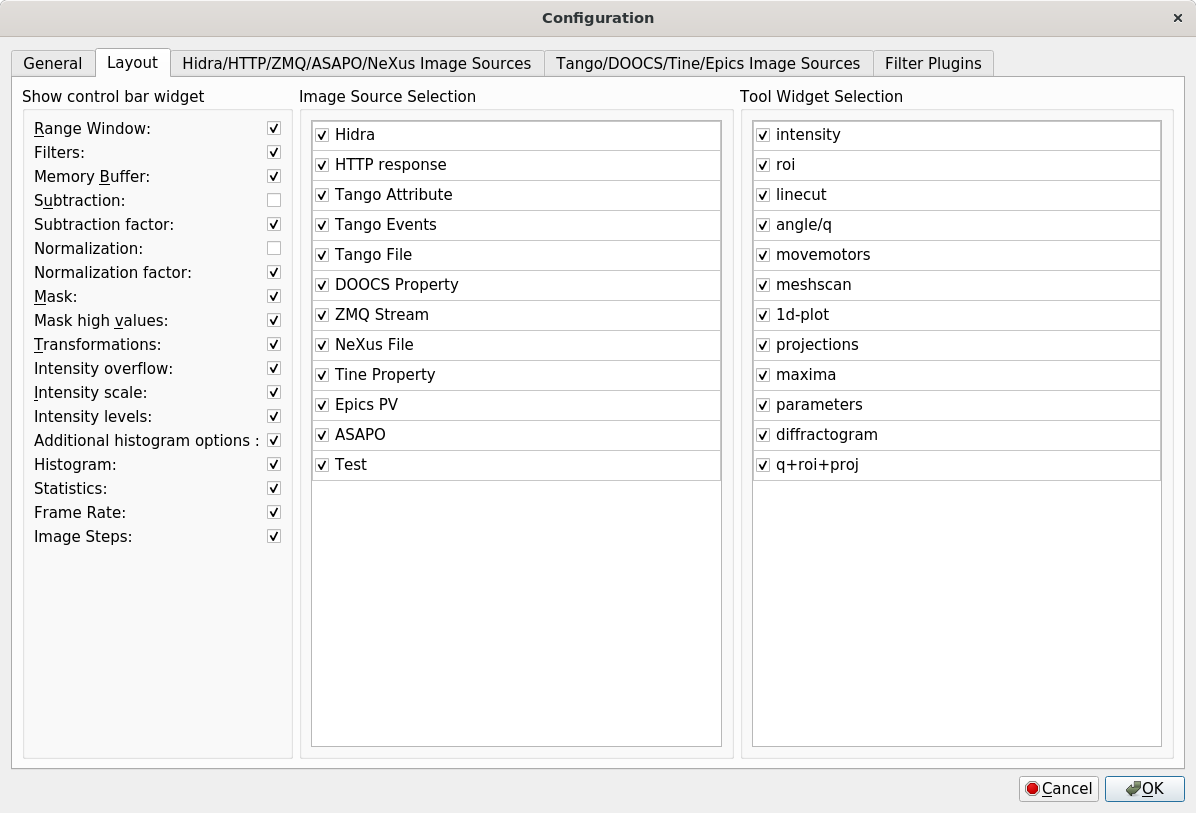
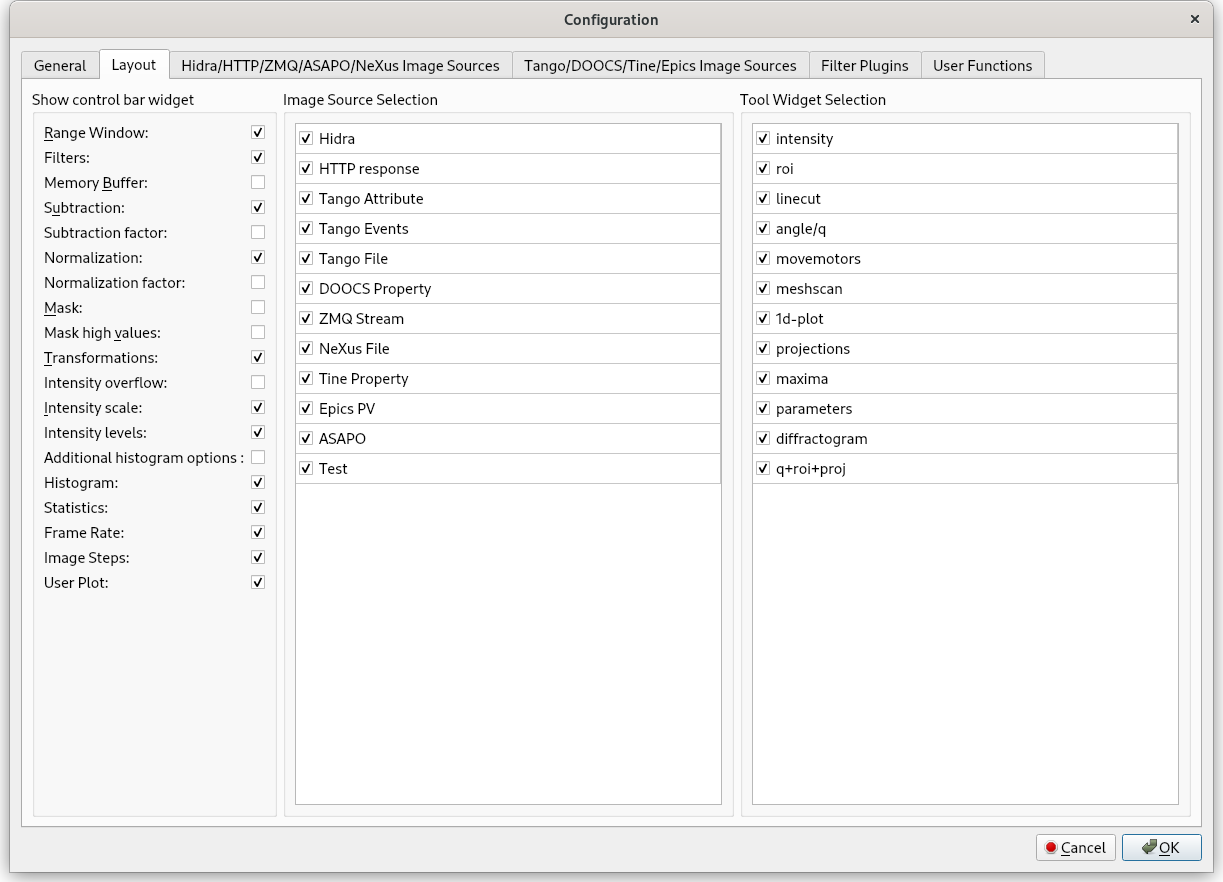
add user function doc

Changed region(s): [[0.0, 0.0, 1.0, 1.0]]

diff --git a/lavuelib/plugins/userfunctions.py b/lavuelib/plugins/userfunctions.py
@@ -27,7 +27,7 @@
 
 class LineCut(object):
 
-    """ Horizontal gap filter"""
+    """ LineCut selection"""
 
     def __init__(self, configuration=None):
         """ constructor
@@ -63,8 +63,49 @@ class LineCut(object):
         return userplot
 
 
+class LineCutFlat(object):
+
+    """Flatten line cut"""
+
+    def __init__(self, configuration=None):
+        """ constructor
+
+        :param configuration: JSON list with horizontal gap pixels to add
+        :type configuration: :obj:`str`
+        """
+        #: (:obj:`list` <:obj: `str`>) list of indexes for gap
+        self.__index = 1
+        try:
+            self.__flat = float(configuration)
+        except Exception:
+            self.__flat = 100000000.
+            pass
+
+    def __call__(self, results):
+        """ call method
+
+        :param results: dictionary with tool results
+        :type results: :obj:`dict`
+        :returns: dictionary with user plot data
+        :rtype: :obj:`dict`
+        """
+        userplot = {}
+        # print("RESULTS", results)
+        label = "linecut_%s" % self.__index
+        if label in results:
+            userplot = {"x": results[label][0],
+                        "y": [min(yy, self.__flat)
+                              for yy in results[label][1]],
+                        "title":
+                        "%s flatten at '%s'" % (label, self.__flat)}
+            if "unit" in results:
+                userplot["bottom"] = results["unit"]
+                userplot["left"] = "intencity"
+        return userplot
+
+
 def linecut_1(results):
-    """ rotate image by 45 deg
+    """ line rotate image by 45 deg
 
     :param results: dictionary with tool results
     :type results: :obj:`dict`

diff --git a/doc/userfunctionplugins.rst b/doc/userfunctionplugins.rst
@@ -1,0 +1,78 @@
+.. _user-function-plugins:
+
+User Function plugins
+---------------------
+
+A **User Function plugin** can be defined by a **class** or a **function** in a python package.
+
+A **user function plugin** defined by a **function** is a simple python function with one argument: `results` which contain a python dictionary of **ToolResults**.
+
+This function **returns** a python dictionary with `x` and  `y` *list* data to plot  and optionally `title`, `bottom` and `left` *string* labels , e.g.
+
+.. code-block:: python
+
+    def positive(results):
+	""" plot positive function values on the LineCut tool
+
+	:param results: dictionary with tool results
+	:type results: :obj:`dict`
+	:returns: dictionary with user plot data
+	:rtype: :obj:`dict`
+	"""
+	userplot = {}
+	if "linecut_1" in results:
+	    userplot = {"x": results["linecut_1"][0],
+			"y": [max(0.0, yy) for yy in results["linecut_1"][1]]}
+	return userplot
+
+
+A **user function plugin** defined by a **class** it should have defined **__call__** method with one argument: `results`.
+
+This **__call__** function returns a python dictionary with `x` and  `y` *list* data to plot  and optionally `title`, `bottom` and `left` *string* labels.
+
+Moreover, the class *constructor* has one configuration string argument initialized by an initialization parameter, e.g.
+
+.. code-block:: python
+
+    class LineCutFlat(object):
+
+	"""Flatten line cut"""
+
+	def __init__(self, configuration=None):
+	    """ constructor
+
+	    :param configuration: JSON list with horizontal gap pixels to add
+	    :type configuration: :obj:`str`
+	    """
+	    #: (:obj:`list` <:obj: `str`>) list of indexes for gap
+	    self.__index = 1
+	    try:
+		self.__flat = float(configuration)
+	    except Exception:
+		self.__flat = 100000000.
+		pass
+
+	def __call__(self, results):
+	    """ call method
+
+	    :param results: dictionary with tool results
+	    :type results: :obj:`dict`
+	    :returns: dictionary with user plot data
+	    :rtype: :obj:`dict`
+	    """
+	    userplot = {}
+	    # print("RESULTS", results)
+	    label = "linecut_%s" % self.__index
+	    if label in results:
+		userplot = {"x": results[label][0],
+			    "y": [min(yy, self.__flat)
+				  for yy in results[label][1]],
+			    "title":
+			    "%s flatten at '%s'" % (label, self.__flat)}
+		if "unit" in results:
+		    userplot["bottom"] = results["unit"]
+		    userplot["left"] = "intencity"
+	    return userplot
+
+
+To configure filters see :ref:`user-function-plugins-settings`.

diff --git a/doc/gui/configuration/userfunctionsettings.rst b/doc/gui/configuration/userfunctionsettings.rst
@@ -1,0 +1,24 @@
+.. _user-function-plugins-settings:
+
+User Functions settings
+=======================
+
+The sixth tab of the configuration dialog contains **User Functions configuration**. It allows to add the :ref:`user-function-plugins` of tool resultes defined by classes or functions in python packages.
+
+.. figure:: ../../_images/lavue_userfunctionconfig.png
+
+
+User Functions plugin table buttons:
+
+*    **Insert Row Above:** inserts  a row for a filter plugin above the selected row
+*    **Insert Row Below:** inserts a row for a filter plugin below the selected row
+*    **Delete Row:** deletes the selected row
+
+User Functions plugin table columns:
+
+*    **package.module.class or package.module.function:** location of user plugin class or function in package.module directories
+*    **initialization parameters:** string which with initialization parameters of filter plugin class constructor
+
+.. |br| raw:: html
+
+     <br>

diff --git a/doc/gui/index.rst b/doc/gui/index.rst
@@ -18,7 +18,7 @@ GUI User Guide
 ..
 
 *    On the top right side of the main window the user finds an **Image/File name** label as well as a button for :ref:`Load <images>` images from a file-system, **Reload** images from a file -system, this Help, the :ref:`Configuration <configuration>` and Quit buttons.
-*    Below them the detector :ref:`2D image <2d-plot>` is displayed with associated **1D-plots**.
+*    Below them the detector :ref:`2D image <2d-plot>` is displayed with associated **1D-plots** and **user function 1D-plot** if turn on in the configuration layout.
 
 ..
 
@@ -35,6 +35,7 @@ GUI User Guide
    imagesources/index
    rangewindow
    filters
+   userfunctions
    memorybuffer
    imagepreparation
    scaling

diff --git a/doc/gui/userfunctions.rst b/doc/gui/userfunctions.rst
@@ -1,0 +1,15 @@
+.. _lavue-user-functions:
+
+LaVue User Function Plot
+========================
+
+.. figure:: ../_images/lavueuserfunctions.png
+
+The **User Plot** widget allows to display user 1d-plot defined by a user function plugin from the ToolResults dictionary.
+
+Only the first user function is applyied.
+
+
+To configure user functions see :ref:`user-function-plugins-settings`
+
+Examples of the user functions can be found at :ref:`user-functions`

diff --git a/doc/gui/configuration/layout.rst b/doc/gui/configuration/layout.rst
@@ -25,6 +25,7 @@ The second tab of the configuration dialog contains **Layout** options. It allow
 *    **Statistics:** shows the image statistics group
 *    **Frame Rate:** shows frame rate (in Hz)
 *    **Image Steps:** shows image step widgets for loaded files
+*    **User Plot:** shows user function plot from lavue tool results
 
 **Image Source Selection**
 

diff --git a/doc/gui/configuration/index.rst b/doc/gui/configuration/index.rst
@@ -24,3 +24,4 @@ It opens the configuration dialog where the user select matching LaVue **setting
    hidrahttp
    tangodoocs
    filtersettings
+   userfunctionsettings
